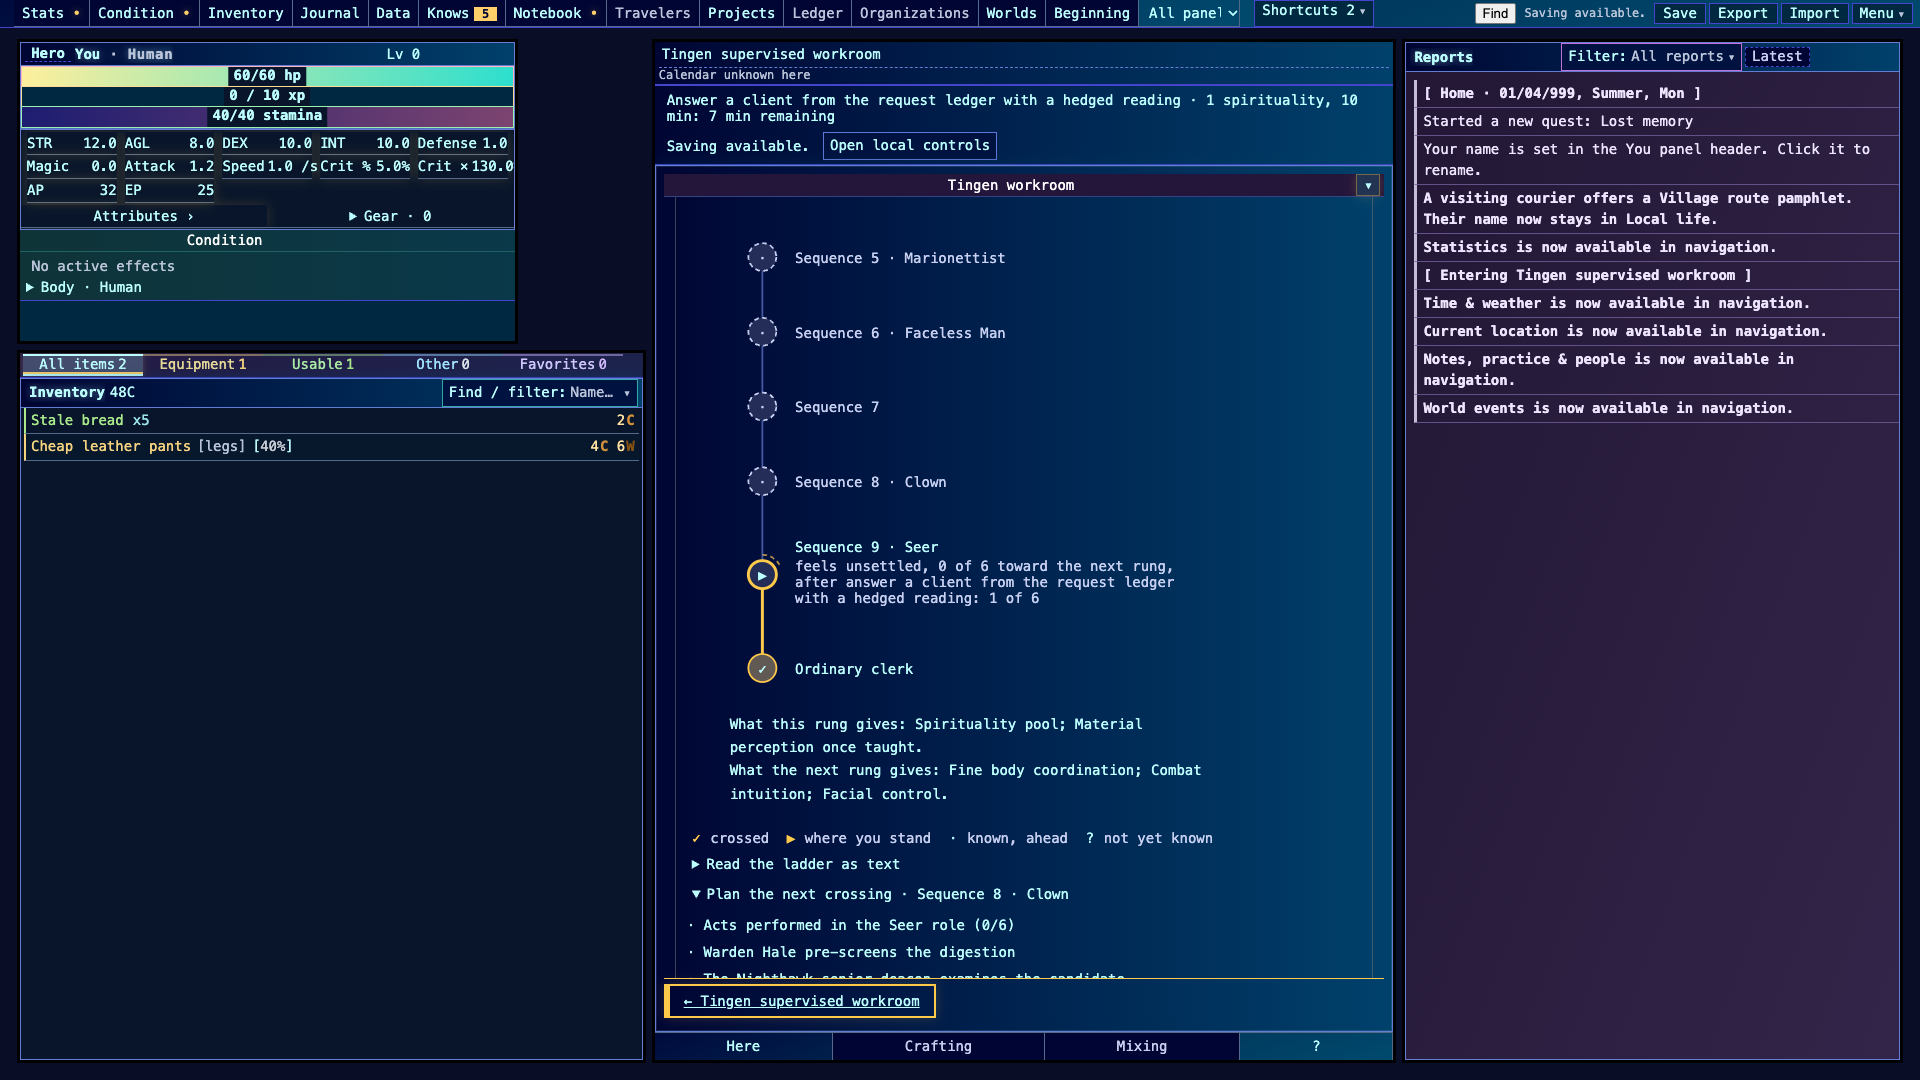
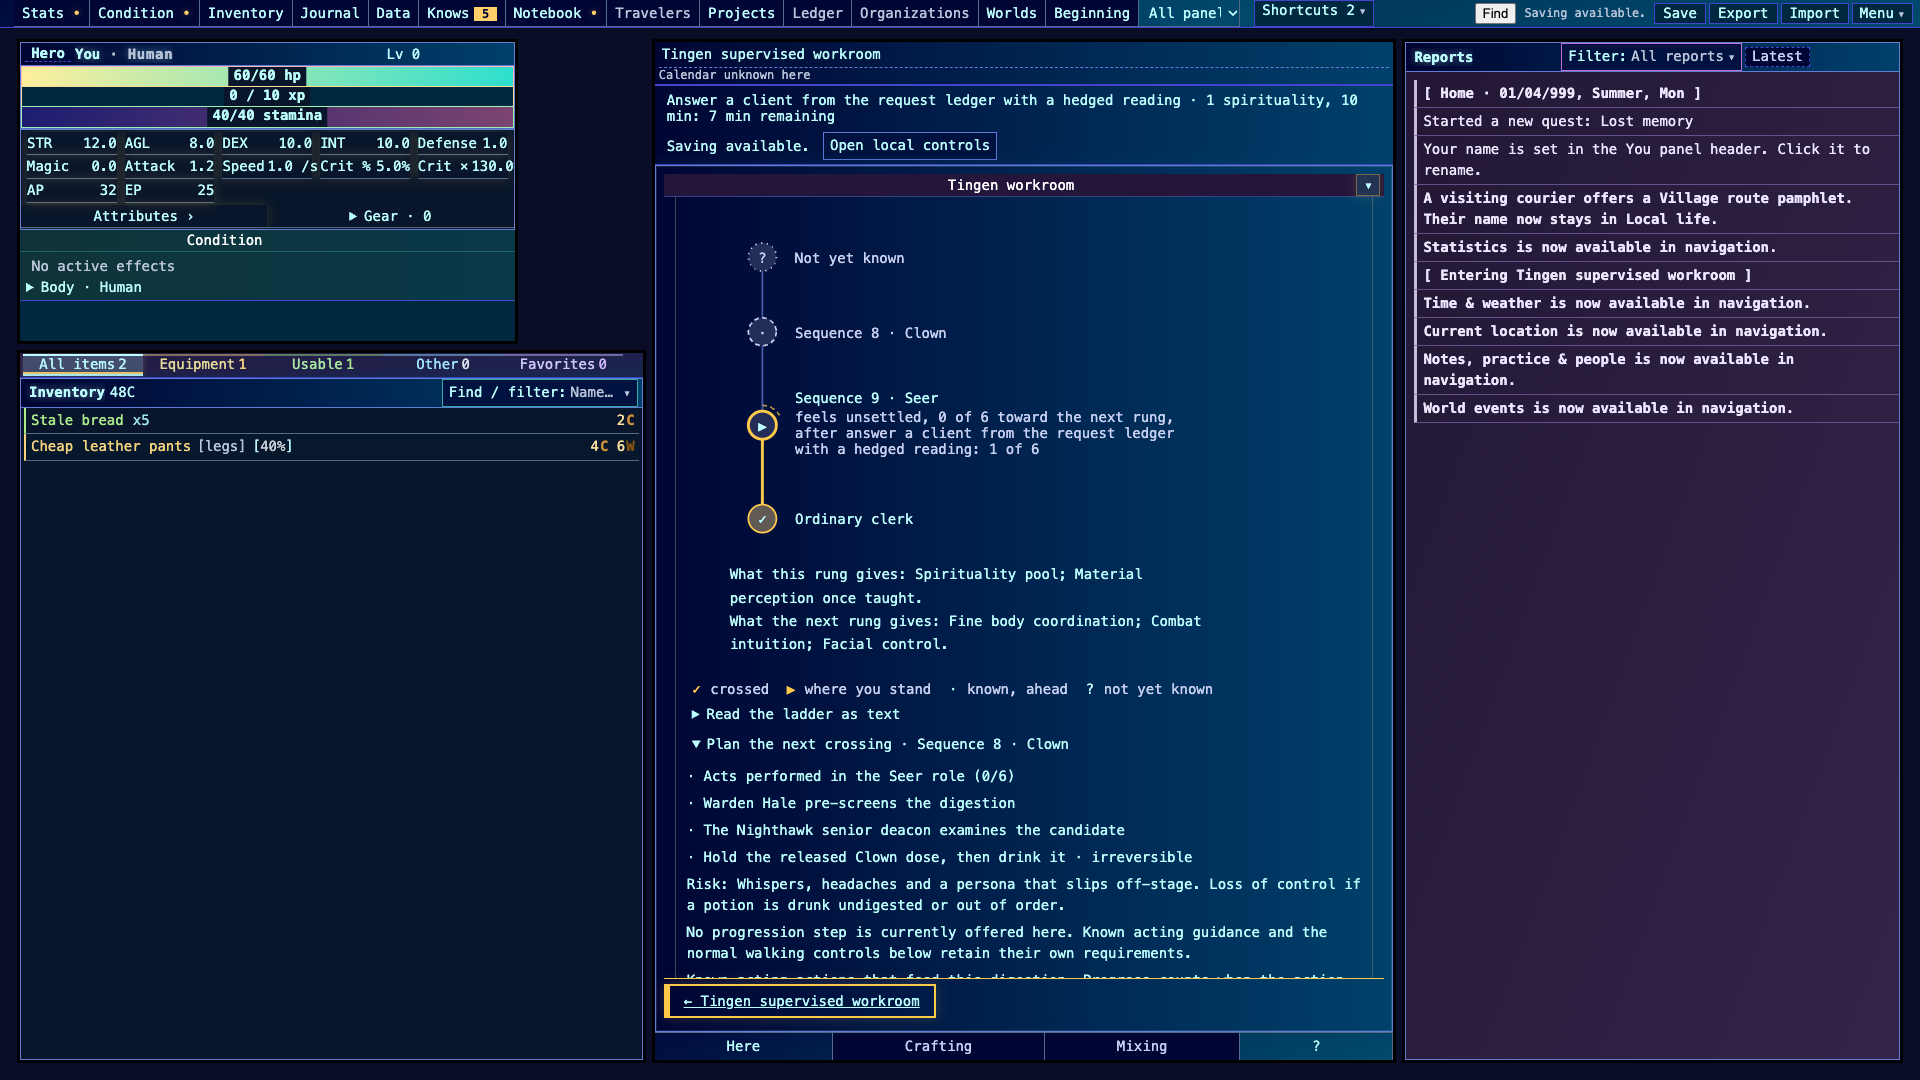
Abilities ladder evidence: recapture the ghost fill without the private advancement pack
The first captures showed later rung names from the private pack; these show only Sequence 9 and 8.
Receipt records the focused run and two failures that also fail on clean HEAD.

diff --git a/docs/representations/ABILITIES.md b/docs/representations/ABILITIES.md
@@ -438,7 +438,8 @@ default in [CHOICES](../gm/dispatch/sonnet-wave-2026-10-30/CHOICES.md) item 2. P
 | Check | Result | Gap |
 |---|---|---|
 | `node --test tests/ability_ladder_figure.test.js tests/figure.test.js` | 19 pass | full suite left to the coordinator (limiter) |
-| Headless Chrome 1920x1080, disposable copy (HEAD + this change + the host patch), fresh origin | gallery: planned fixture 4 ghost arcs, records fixture lines with "(inferred)"; game: PLAY, probationer, dose, lesson, "Find action" on the reading act gives "after answer a client ...: 1 of 6" and one ghost arc; it persists while the act runs; no page errors | ability lines in game need a promoted Sequence 8 life (not reached); `evidence/abilities/ghost-*` |
+| 32 test files importing the changed or patched files, in the copy | 214 pass, 2 fail | both fail on clean HEAD too: `perspective_controls` (organizations route untagged) and the `cast_ability_adapter` disposable-copy save worker |
+| Headless Chrome 1920x1080, disposable copy (HEAD + this change + the host patch, private advancement pack removed so no later rung names reach tracked evidence), fresh origin | gallery: planned fixture 4 ghost arcs, records fixture lines with "(inferred)"; game: PLAY, probationer, dose, lesson, "Find action" on the reading act gives "after answer a client ...: 1 of 6" and one ghost arc; it persists while the act runs; no page errors | ability lines in game need a promoted Sequence 8 life (not reached); `evidence/abilities/ghost-*` |
 
 Findings for other owners (not changed here):
 - F1. With the private advancement pack present, `lotmPathView` passes `known` as the whole path, so a
@@ -446,4 +447,6 @@ Findings for other owners (not changed here):
   belongs to L10 or floor-wire (ABR19).
 - F2. Most L10 rows state no cost (CHOICES item 2). Until the inferred costs land in the data, the
   lines read "cost not stated", which is honest but sparse.
-
+- F3. The first Round 4 commit (`2bae890d`) carried in-game captures made with the private advancement
+  pack present, so they showed later rung names; the follow-up commit replaces them, but the old blobs
+  stay in history. Decide before pushing.
